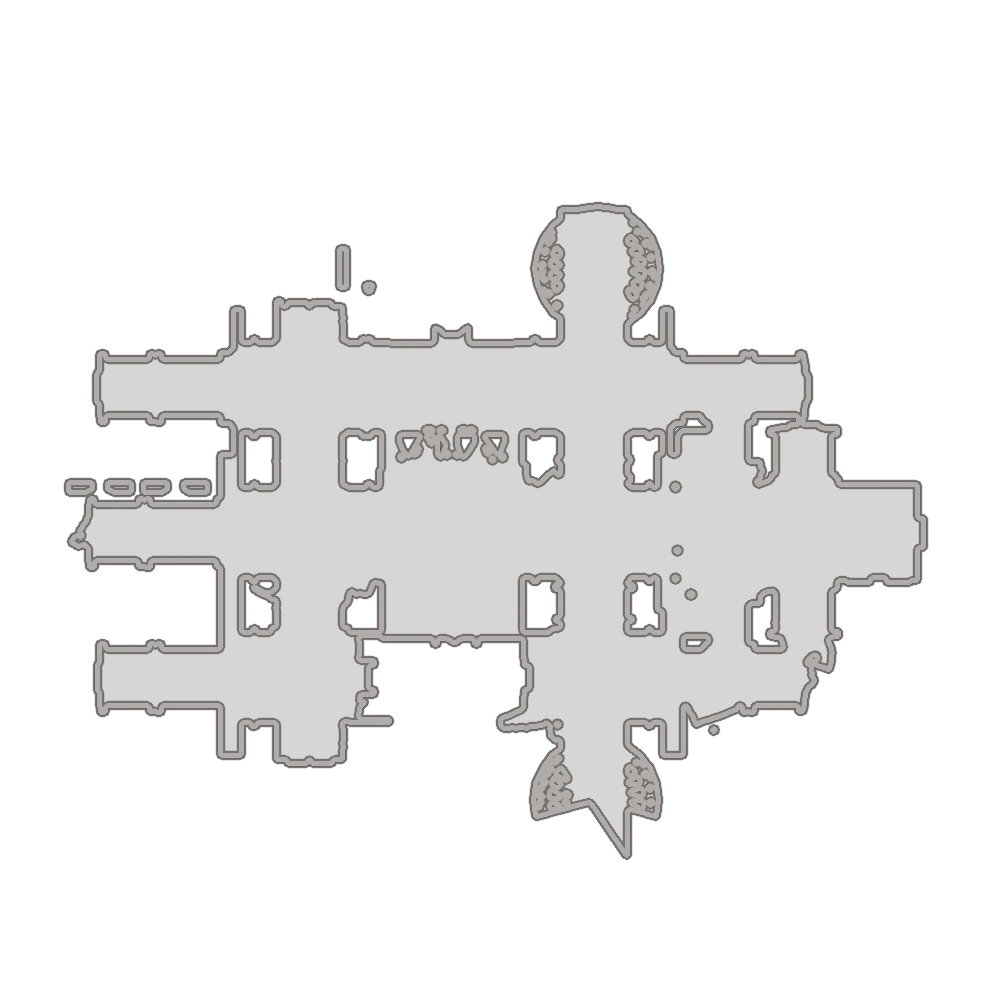
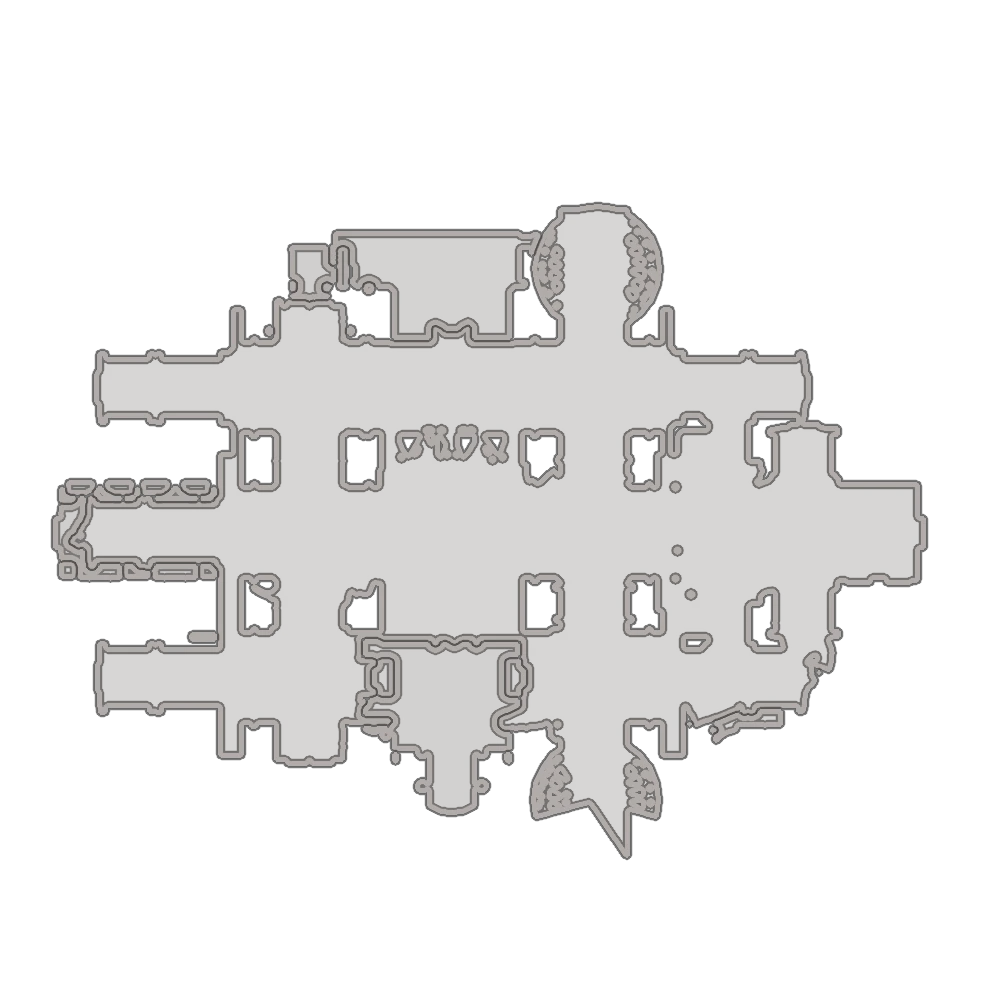
Fix defense minimap floor coverage

diff --git a/analyzer/index.html b/analyzer/index.html
@@ -156,7 +156,7 @@
   </div>
 
   <script src="./html2canvas.min.js"></script>
-  <script src="./minimaps/catalog-20260821-6.js"></script>
+  <script src="./minimaps/catalog-20260821-7.js"></script>
   <script src="./parser.js?v=20260820-67"></script>
   <script src="./tier-data.js?v=20260816-2"></script>
   <script src="./spawn-alignment.js?v=20260820-1"></script>

diff --git a/analyzer/tools/build_game_minimaps.py b/analyzer/tools/build_game_minimaps.py
@@ -18,7 +18,7 @@ import cv2
 import numpy as np
 
 
-IMMUTABLE_CATALOG_FILENAME = "catalog-20260821-6.js"
+IMMUTABLE_CATALOG_FILENAME = "catalog-20260821-7.js"
 
 
 GROUP_NODES = {
@@ -192,6 +192,22 @@ CORPUS_SHIP_D1_SPAWN_SUPPLEMENT_POSITIONS = (
     (64.869, -19.954, 19.272),
 )
 
+# These nine authored Corpus Ship references are hidden only in the 3D viewer
+# because current telemetry has not activated them. Preserve their original IDs
+# in the Analyzer so viewer curation cannot silently change submitted-log
+# alignment behavior.
+CORPUS_SHIP_VIEWER_HIDDEN_SPAWN_REFERENCES = {
+    "392": [[6.522, -20.0, -31.078]],
+    "439": [[-18.608, -6.8, -30.625]],
+    "440": [[-13.074, -6.8, -28.641]],
+    "482": [[0.0, 2.25, -0.25]],
+    "562": [[-49.5, 4.2, 32.1]],
+    "566": [[-49.5, 4.2, 27.35]],
+    "570": [[49.5, 4.2, -32.65]],
+    "574": [[49.5, 4.2, -27.9]],
+    "578": [[66.95, 1.15, -6.25]],
+}
+
 # GasSpawn02 has five live edge points that are instantiated by the procedural
 # defense composition but are absent from the authored WFO overlay. Keep these
 # Analyzer-only references separate from the 3D viewer overlay so the approved
@@ -205,10 +221,13 @@ ANALYZER_SPAWN_SUPPLEMENTS = {
         "runtime-edge-5": [[-78.529, -4.0, 79.5831]],
     },
     "cytherean+xini+gulliver+romula+proteus": {
-        f"d1-defense-{index:03d}": [[*position]]
-        for index, position in enumerate(
-            CORPUS_SHIP_D1_SPAWN_SUPPLEMENT_POSITIONS, start=1
-        )
+        **CORPUS_SHIP_VIEWER_HIDDEN_SPAWN_REFERENCES,
+        **{
+            f"d1-defense-{index:03d}": [[*position]]
+            for index, position in enumerate(
+                CORPUS_SHIP_D1_SPAWN_SUPPLEMENT_POSITIONS, start=1
+            )
+        },
     },
 }
 
@@ -224,6 +243,12 @@ OROKIN_TOWER_CEILING_BAND_MIN_HEIGHT = 2.0
 CORPUS_SHIP_DEFENSE_GROUP = "cytherean+xini+gulliver+romula+proteus"
 CORPUS_SHIP_MIN_CONNECTED_AREA = 1000
 HYDRON_DEFENSE_GROUP = "hydron+helene+odin"
+HYF_DEFENSE_GROUP = "hyf"
+# Hyf's ramps make its authored spawn heights nearly continuous, so generic
+# height clustering collapses its playable decks into a single -6 m slice.
+# Composite the four real floor planes and stop below the roof band near +5 m.
+HYF_PLAYABLE_FLOOR_HEIGHTS = (-6.0, -2.0, 0.0, 2.0)
+HYF_ADDITIONAL_FLOOR_TOLERANCE = 1.1
 # ObjDefense01 stops at the two high side doors, while real Defense layouts
 # attach spawn-room pieces beyond them. These clean envelopes are backed by the
 # reviewed D1 positions at Y=12.2-13.8; they deliberately omit roof/truss detail
@@ -492,9 +517,16 @@ def render_map(
     heights = cluster_heights(spawn_heights + objective_heights)
     if group_id == GAS_SPAWN_02_GROUP:
         heights = [height for height in heights if height < GAS_SPAWN_02_MAX_MAP_HEIGHT]
+    elif group_id == HYF_DEFENSE_GROUP:
+        heights = list(HYF_PLAYABLE_FLOOR_HEIGHTS)
     chunk_size = 160_000
 
     for band_index, height in enumerate(heights):
+        height_tolerance = (
+            HYF_ADDITIONAL_FLOOR_TOLERANCE
+            if group_id == HYF_DEFENSE_GROUP and band_index > 0
+            else 3.0
+        )
         mask = np.zeros((size, size), dtype=np.uint8)
         for start in range(0, len(faces), chunk_size):
             tri = positions[faces[start : start + chunk_size]]
@@ -507,7 +539,7 @@ def render_map(
             keep = (
                 (normal_length > 1e-5)
                 & (np.abs(normals[:, 1]) / np.maximum(normal_length, 1e-9) > 0.58)
-                & (np.abs(centroids[:, 1] - height) <= 3.0)
+                & (np.abs(centroids[:, 1] - height) <= height_tolerance)
                 & (area > 0.01)
                 & (area < 520.0)
                 & (centroids[:, 0] >= lo[0])
@@ -531,6 +563,11 @@ def render_map(
             for room in CORPUS_SHIP_RUNTIME_SPAWN_ROOMS:
                 floor = project(room).reshape((-1, 1, 2))
                 cv2.fillPoly(mask, [floor], 255, lineType=cv2.LINE_AA)
+        if group_id == HYF_DEFENSE_GROUP and band_index > 0:
+            # Extend the established low-floor silhouette only into blank map
+            # space. This restores the upper and lower-middle playable decks
+            # without repainting the interior with ceiling/furniture clutter.
+            mask[image[:, :, 3] > 0] = 0
 
         # Close sub-pixel extraction seams without flattening real doorways and
         # holes, then draw only the resulting room/perimeter contours.
@@ -658,6 +695,7 @@ def render_map(
         OROKIN_TOWER_DEFENSE_GROUP: "ceiling-trim-20260820",
         CORPUS_SHIP_DEFENSE_GROUP: "runtime-side-rooms-20260821",
         HYDRON_DEFENSE_GROUP: "counterclockwise-20260821",
+        HYF_DEFENSE_GROUP: "multi-floor-20260821",
     }
     asset_version = asset_versions.get(group_id)
     return {
